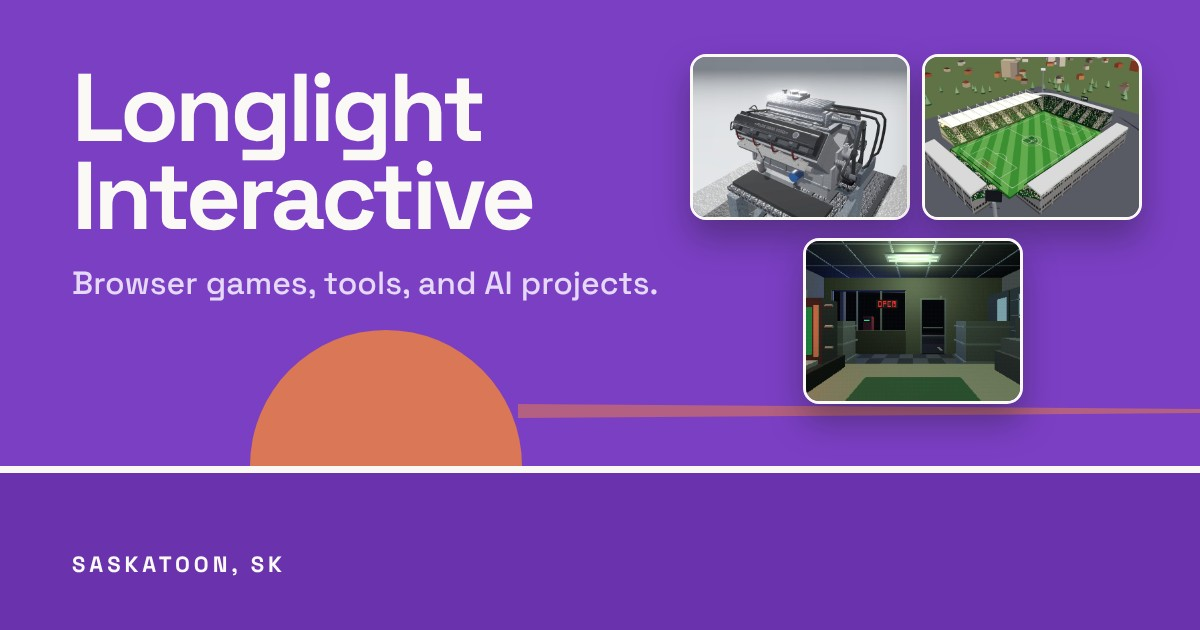
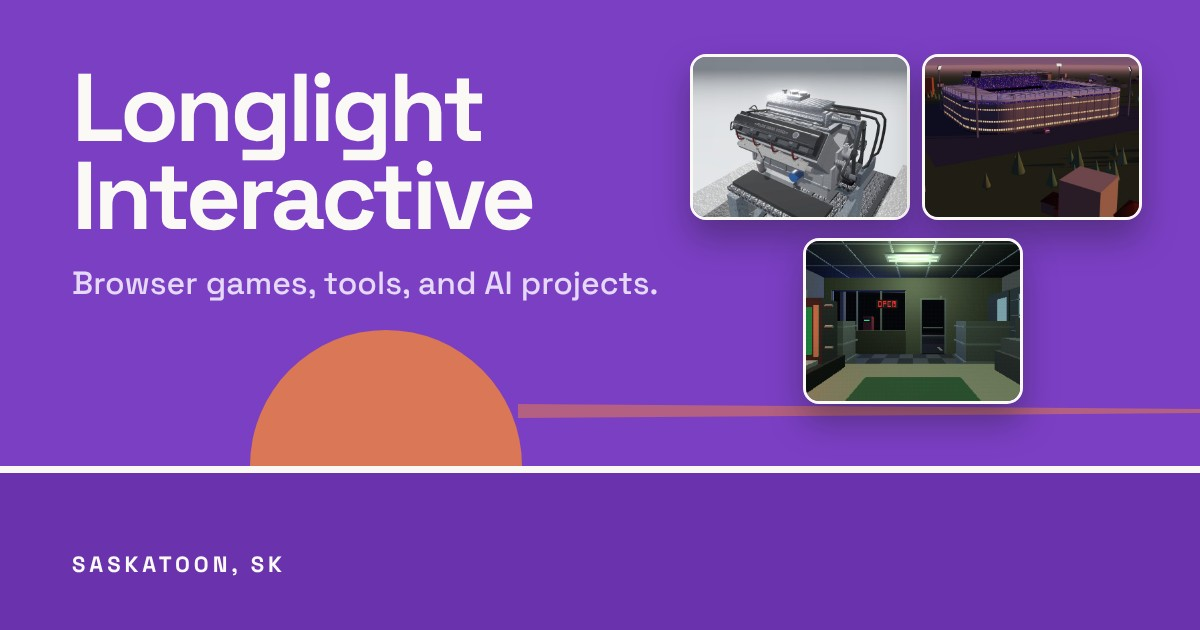
Retake the Season Ticket cover and show v1.0.0 (#105)
* Redraw the grain elevator as a wooden prairie elevator with leg house, annex, cyclone and spout

Claude-Session: https://claude.ai/code/session_016QaTkMKy8nw5ihBrZfYzcJ

* Keep the train headlight clay in dark mode and give the train an explicit width

Claude-Session: https://claude.ai/code/session_016QaTkMKy8nw5ihBrZfYzcJ

* Give the horizon readout room below the railway

Claude-Session: https://claude.ai/code/session_016QaTkMKy8nw5ihBrZfYzcJ

* Add tilt and compass sky, Sky this week, wish badges, offline and smoother page changes

- Tilt sky (phones): the stars, moon and clouds slide with the phone's
  tilt, and the compass turns the stars and planets to the way the phone
  faces, dimming the sun or moon behind you
- Sky this week card on the home page: tonight's planets, moon phases,
  moon-planet passes, meteor peaks, eclipses, equinoxes, solstices and the
  sunset trend, all worked out on the phone
- Wish counter with badges at 1, 10, 25, 50 and 100
- sw.js offline helper: network first, saved copy when there's no signal
- Header and page-top sky stay put during page changes

Claude-Session: https://claude.ai/code/session_016QaTkMKy8nw5ihBrZfYzcJ

* Add Scratch to the games list

Scratch is Longlight's new roguelike scratch-ticket game, live at
jxstrr0.github.io/Scratch. It gets a project entry (status Building,
v0.1.0), a 640x480 cover and four screenshots captured from the live game.
CLAUDE.md lists its repo with the other games.
[…]

Changed region(s): [[0.7708, 0.0905, 0.9558, 0.3619]]

diff --git a/tools/prediction-tracker/index.html b/tools/prediction-tracker/index.html
@@ -14,7 +14,7 @@
   <meta property="og:title" content="Prediction Tracker · Longlight Interactive">
   <meta property="og:description" content="Log predictions with how sure you are, grade them later, and see how well-calibrated your calls really are. Everything stays on your own device.">
   <meta property="og:url" content="https://jxstrr0.github.io/Kelbo.Website/tools/prediction-tracker/">
-  <meta property="og:image" content="https://jxstrr0.github.io/Kelbo.Website/assets/social-preview.jpg?v=8">
+  <meta property="og:image" content="https://jxstrr0.github.io/Kelbo.Website/assets/social-preview.jpg?v=9">
   <meta property="og:image:width" content="1200">
   <meta property="og:image:height" content="630">
   <meta property="og:image:alt" content="The Longlight Interactive sun over a purple horizon, beside screenshots of four of its games.">

diff --git a/agent-fleet.html b/agent-fleet.html
@@ -14,7 +14,7 @@
   <meta property="og:title" content="Agent Fleet · Longlight Interactive">
   <meta property="og:description" content="A growing set of small, single-purpose bots I can run from my phone, like news digests, trackers, and weekly scans.">
   <meta property="og:url" content="https://jxstrr0.github.io/Kelbo.Website/agent-fleet.html">
-  <meta property="og:image" content="https://jxstrr0.github.io/Kelbo.Website/assets/social-preview.jpg?v=8">
+  <meta property="og:image" content="https://jxstrr0.github.io/Kelbo.Website/assets/social-preview.jpg?v=9">
   <meta property="og:image:width" content="1200">
   <meta property="og:image:height" content="630">
   <meta property="og:image:alt" content="The Longlight Interactive sun over a purple horizon, beside screenshots of four of its games.">

diff --git a/journal.html b/journal.html
@@ -14,7 +14,7 @@
   <meta property="og:title" content="AI Trading Journal · Longlight Interactive">
   <meta property="og:description" content="Kelbo's trading journal: his market views, his trades, and his running record, with notes from an AI coach.">
   <meta property="og:url" content="https://jxstrr0.github.io/Kelbo.Website/journal.html">
-  <meta property="og:image" content="https://jxstrr0.github.io/Kelbo.Website/assets/social-preview.jpg?v=8">
+  <meta property="og:image" content="https://jxstrr0.github.io/Kelbo.Website/assets/social-preview.jpg?v=9">
   <meta property="og:image:width" content="1200">
   <meta property="og:image:height" content="630">
   <meta property="og:image:alt" content="The Longlight Interactive sun over a purple horizon, beside screenshots of four of its games.">

diff --git a/game.html b/game.html
@@ -14,7 +14,7 @@
   <meta property="og:title" content="Game · Longlight Interactive">
   <meta property="og:description" content="A Longlight Interactive browser game: what it is, how far along it is, screenshots, and where to play it.">
   <meta property="og:url" content="https://jxstrr0.github.io/Kelbo.Website/game.html">
-  <meta property="og:image" content="https://jxstrr0.github.io/Kelbo.Website/assets/social-preview.jpg?v=8">
+  <meta property="og:image" content="https://jxstrr0.github.io/Kelbo.Website/assets/social-preview.jpg?v=9">
   <meta property="og:image:width" content="1200">
   <meta property="og:image:height" content="630">
   <meta property="og:image:alt" content="The Longlight Interactive sun over a purple horizon, beside screenshots of four of its games.">

diff --git a/games.html b/games.html
@@ -14,7 +14,7 @@
   <meta property="og:title" content="Games · Longlight Interactive">
   <meta property="og:description" content="Browser games from Longlight Interactive. Play them on your phone or computer, or look at the code.">
   <meta property="og:url" content="https://jxstrr0.github.io/Kelbo.Website/games.html">
-  <meta property="og:image" content="https://jxstrr0.github.io/Kelbo.Website/assets/social-preview.jpg?v=8">
+  <meta property="og:image" content="https://jxstrr0.github.io/Kelbo.Website/assets/social-preview.jpg?v=9">
   <meta property="og:image:width" content="1200">
   <meta property="og:image:height" content="630">
   <meta property="og:image:alt" content="The Longlight Interactive sun over a purple horizon, beside screenshots of four of its games.">

diff --git a/projects.html b/projects.html
@@ -14,7 +14,7 @@
   <meta property="og:title" content="Projects · Longlight Interactive">
   <meta property="og:description" content="Games, tools, and AI projects from Longlight Interactive, from planned to shipped.">
   <meta property="og:url" content="https://jxstrr0.github.io/Kelbo.Website/projects.html">
-  <meta property="og:image" content="https://jxstrr0.github.io/Kelbo.Website/assets/social-preview.jpg?v=8">
+  <meta property="og:image" content="https://jxstrr0.github.io/Kelbo.Website/assets/social-preview.jpg?v=9">
   <meta property="og:image:width" content="1200">
   <meta property="og:image:height" content="630">
   <meta property="og:image:alt" content="The Longlight Interactive sun over a purple horizon, beside screenshots of four of its games.">

diff --git a/about.html b/about.html
@@ -14,7 +14,7 @@
   <meta property="og:title" content="About · Longlight Interactive">
   <meta property="og:description" content="About Kelbo, the person behind Longlight Interactive, based in Saskatoon, Saskatchewan.">
   <meta property="og:url" content="https://jxstrr0.github.io/Kelbo.Website/about.html">
-  <meta property="og:image" content="https://jxstrr0.github.io/Kelbo.Website/assets/social-preview.jpg?v=8">
+  <meta property="og:image" content="https://jxstrr0.github.io/Kelbo.Website/assets/social-preview.jpg?v=9">
   <meta property="og:image:width" content="1200">
   <meta property="og:image:height" content="630">
   <meta property="og:image:alt" content="The Longlight Interactive sun over a purple horizon, beside screenshots of four of its games.">

diff --git a/whats-new.html b/whats-new.html
@@ -14,7 +14,7 @@
   <meta property="og:title" content="What's new · Longlight Interactive">
   <meta property="og:description" content="The newest version and latest change for every Longlight Interactive project.">
   <meta property="og:url" content="https://jxstrr0.github.io/Kelbo.Website/whats-new.html">
-  <meta property="og:image" content="https://jxstrr0.github.io/Kelbo.Website/assets/social-preview.jpg?v=8">
+  <meta property="og:image" content="https://jxstrr0.github.io/Kelbo.Website/assets/social-preview.jpg?v=9">
   <meta property="og:image:width" content="1200">
   <meta property="og:image:height" content="630">
   <meta property="og:image:alt" content="The Longlight Interactive sun over a purple horizon, beside screenshots of four of its games.">

diff --git a/trading.html b/trading.html
@@ -14,7 +14,7 @@
   <meta property="og:title" content="Trading · Longlight Interactive">
   <meta property="og:description" content="Kelbo's trading journal and the tools he builds for his own trading day.">
   <meta property="og:url" content="https://jxstrr0.github.io/Kelbo.Website/trading.html">
-  <meta property="og:image" content="https://jxstrr0.github.io/Kelbo.Website/assets/social-preview.jpg?v=8">
+  <meta property="og:image" content="https://jxstrr0.github.io/Kelbo.Website/assets/social-preview.jpg?v=9">
   <meta property="og:image:width" content="1200">
   <meta property="og:image:height" content="630">
   <meta property="og:image:alt" content="The Longlight Interactive sun over a purple horizon, beside screenshots of four of its games.">

diff --git a/index.html b/index.html
@@ -14,7 +14,7 @@
   <meta property="og:title" content="Longlight Interactive">
   <meta property="og:description" content="Longlight Interactive makes browser games, tools, and AI projects in Saskatoon, Saskatchewan.">
   <meta property="og:url" content="https://jxstrr0.github.io/Kelbo.Website/">
-  <meta property="og:image" content="https://jxstrr0.github.io/Kelbo.Website/assets/social-preview.jpg?v=8">
+  <meta property="og:image" content="https://jxstrr0.github.io/Kelbo.Website/assets/social-preview.jpg?v=9">
   <meta property="og:image:width" content="1200">
   <meta property="og:image:height" content="630">
   <meta property="og:image:alt" content="The Longlight Interactive sun over a purple horizon, beside screenshots of four of its games.">

diff --git a/ai.html b/ai.html
@@ -14,7 +14,7 @@
   <meta property="og:title" content="AI · Longlight Interactive">
   <meta property="og:description" content="AI projects and small bots from Longlight Interactive.">
   <meta property="og:url" content="https://jxstrr0.github.io/Kelbo.Website/ai.html">
-  <meta property="og:image" content="https://jxstrr0.github.io/Kelbo.Website/assets/social-preview.jpg?v=8">
+  <meta property="og:image" content="https://jxstrr0.github.io/Kelbo.Website/assets/social-preview.jpg?v=9">
   <meta property="og:image:width" content="1200">
   <meta property="og:image:height" content="630">
   <meta property="og:image:alt" content="The Longlight Interactive sun over a purple horizon, beside screenshots of four of its games.">

diff --git a/CLAUDE.md b/CLAUDE.md
@@ -49,7 +49,7 @@ Live at https://jxstrr0.github.io/Kelbo.Website/
 - The link preview image is `assets/social-preview.jpg` (1200×630, the
   Longlight sky, the sun with its glow and halo on the horizon line,
   "Longlight Interactive", plus the three featured game covers: Prairie Engine Works, Season Ticket, Scratch). Every `og:image`
-  ends `?v=8` so apps refetch it; bump it on every page when the picture
+  ends `?v=9` so apps refetch it; bump it on every page when the picture
   changes. Regenerate it if the covers change a lot. The favicon and
   home-screen icons are the logo's sun (glow, halo, sun) on an ivory line
   on a purple tile (the favicon turns slate in dark mode):
@@ -106,8 +106,8 @@ Live at https://jxstrr0.github.io/Kelbo.Website/
   it's shot at 600px wide mid-shift with a jet on the TV camera, cropped 4:3;
   Prairie Engine Works is the GM LT4 6.2 from the game's own studio render,
   `ENGINE_VIS.photoShot(1280, 960)`, so no stray parts show; Season Ticket is
-  the Stadium tab's 3D ground by day, zoomed in one step, with its canvas
-  stretched to a 1024×768 window and the buttons and top bar hidden).
+  the game's dusk title scene at 1024×768, with every element except the 3D
+  canvas hidden, cropped 4:3).
 - The live horizon (`[data-horizon]` in the home hero, every page head and
   the 404) puts the sun where the real sun is over Saskatoon (`YXE` in
   `main.js`, no network; only the optional weather, air quality and aurora fetch), switches to the dark theme at real sunset, and
